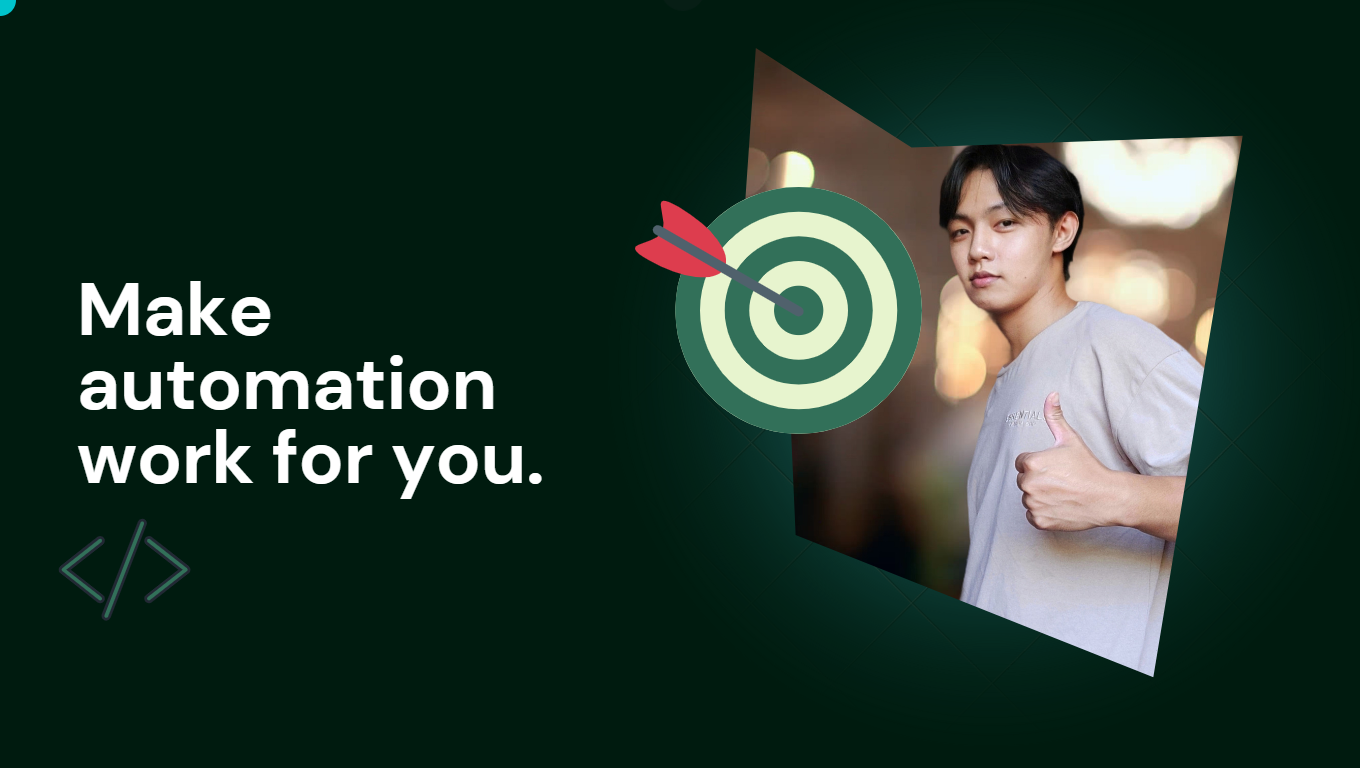
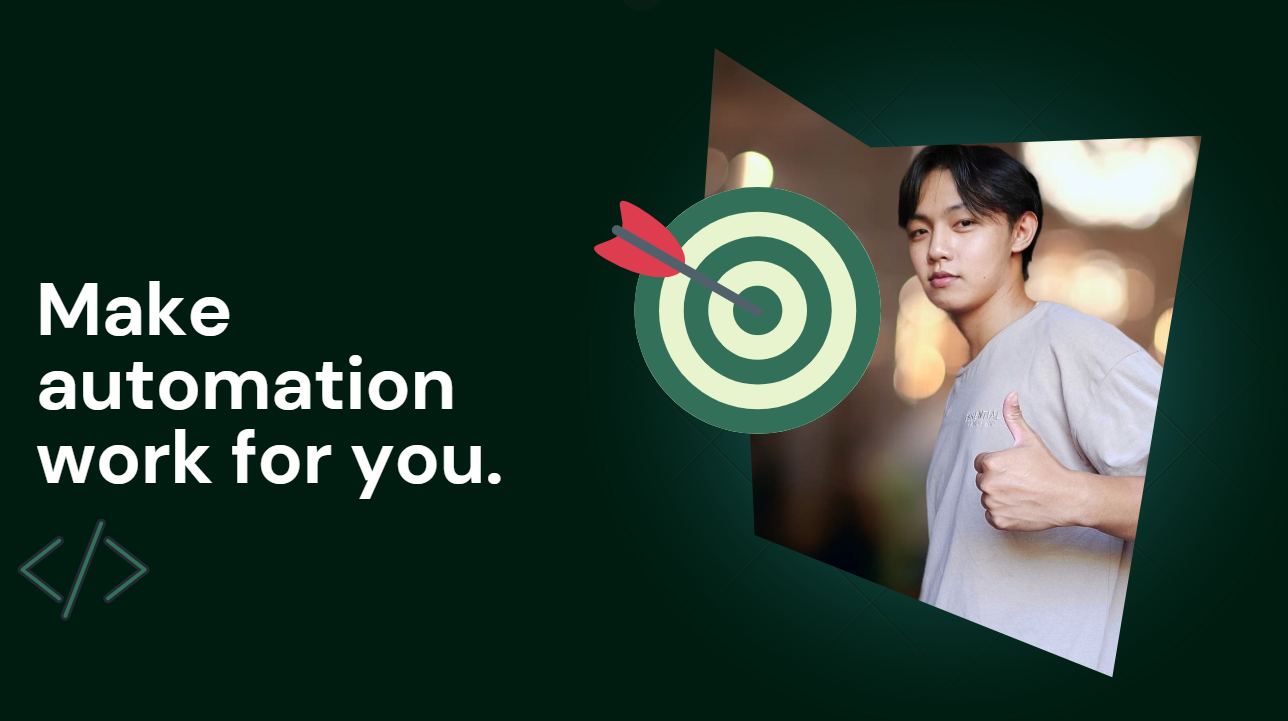
Add capstone-1

diff --git a/index.html b/index.html
@@ -22,32 +22,45 @@
         <link rel="preconnect" href="https://fonts.gstatic.com" crossorigin>
         <link href="https://fonts.googleapis.com/css2?family=Open+Sans:wght@300;400;500;600;700;800&display=swap" rel="stylesheet">
 
+        <link rel="preconnect" href="https://fonts.googleapis.com">
+        <link rel="preconnect" href="https://fonts.gstatic.com" crossorigin>
+        <link href="https://fonts.googleapis.com/css2?family=Neuton:ital,wght@0,200;0,300;0,400;1,400&family=Open+Sans:wght@400;500;600;700;800&display=swap" rel="stylesheet">
+
+        <link rel="preconnect" href="https://fonts.googleapis.com">
+        <link rel="preconnect" href="https://fonts.gstatic.com" crossorigin>
+        <link href="https://fonts.googleapis.com/css2?family=Allerta+Stencil&family=Neuton:ital,wght@0,200;0,300;0,400;1,400&family=Open+Sans:wght@400;500;600;700;800&display=swap" rel="stylesheet">
+
 
     </head>
     <body>
 
-        <nav class="container-fluid">
-            <ul class="kulay navbar-nav d-flex flex-row p-3">
-                <li class="nav-logo pl-5">
-                    <img class="r-logo" src="./images/r-logo.png" id="logo">
-                </li>
-                <div class="right-nav ml-auto">  
-                    <li class="nav home-icon">Home</li>
-                    <li class="nav">About me</li>
-                    <li class="nav">Projects</li>
-                    <li class="nav">Contact me</li>
-                    <li class="nav">
-                        <button class="tuitt-button">Join</button>
+        <nav class="container-fluid kulay">
+            <ul class=" navbar-nav d-flex flex-row pt-1 pb-1 ">
+                    <li class="nav-logo pl-5">
+                        <img class="img-fluid r-logo" src="./images/R-logo.png" id="logo">
+                    </li>
+
+                <div class="justify-content-center align-center p-3 pl-5">
+                    <div class="right-nav d-md-flex">  
+                        <li class="nav home-icon">Home</li>
+                        <li class="nav">About me</li>
+                        <li class="nav">Projects</li>
+                        <li class="nav">Contact me</li>      
+                    </div>
+                </div>
+
+                <div class="d-flex flex-row ml-auto mr-4" >
+                    <li class="nav ml-auto">
+                            <button class="btn tuitt-button" type="button">Join</button>
                     </li>
                 </div>
-            </ul>
+            </ul> 
         </nav>
 
 
         <!-- Carousel Home Start-->
-        <section class="container-fluid">
-        <div class="row d-none d-md-block mt-md-5">
-                                <div class="offset-xl-3 col-xl-6">
+        <div class="flex-md-row ">
+                                <div class="col-md-12 p-0">
                                     
                                     <div id="carouselExampleIndicators" class="carousel slide" data-ride="carousel">
                                       <ol class="carousel-indicators">
@@ -57,27 +70,15 @@
                                       </ol>
                                       <div class="carousel-inner">
                                         <div class="carousel-item active">
-                                          <img src="./images/home-1.png" class="d-block w-100" alt="...">
-                                                    <div class="carousel-caption d-none d-md-block">
-                                                        <h5>First slide label</h5>
-                                                        <p>Some representative placeholder content for the first slide.</p>
-                                                    </div>
+                                          <img src="./images/home-1.png" class="d-block w-100 horse-size" width="1900px" height="750px" alt="100">
                                         </div>
 
                                         <div class="carousel-item">
-                                          <img src="./images/home-2.png" class="d-block w-100" alt="...">
-                                                <div class="carousel-caption d-none d-md-block">
-                                                    <h5>First slide label</h5>
-                                                    <p>Some representative placeholder content for the first slide.</p>
-                                                </div>
+                                          <img  src="./images/home-2.png" class="d-block w-100 horse-size"width="1920px" height="750px">
                                         </div>
 
                                         <div class="carousel-item">
-                                          <img src="./images/home-3.png" alt="...">
-                                                <div class="carousel-caption d-none d-md-block">
-                                                    <h5>First slide label</h5>
-                                                    <p>Some representative placeholder content for the first slide.</p>
-                                                </div>
+                                          <img src="./images/home-3.png" class="horse-size" width="1920px" height="750px">
                                         </div>
 
                                       </div>
@@ -93,46 +94,22 @@
 
                                 </div>
                             </div>
-        </section>
         <!-- Carousel Home End-->
 
 
-
-
-
-
-
-
-
-
-
-
-
-
-
-
-
-
-
-        <!-- intro section -->
+        <!-- About Me Start -->
         <section class="intro">
-            <h2 class="title-2">What is a Developer Career Program?</h2>
+            <h2 class="title-2">About Me</h2>
             <p class="intro-description">
                 The Developer Career Program is inclusive of in-depth modules on static and dynamic web applications, with emphasis on the development of well-designed integrated software. The course covers key concepts on full-stack web development, including Responsive Web Design, Rapid Prototyping and Product Deployments.
             </p>       
         </section>
-        <!-- end of intro section -->
+        <!-- About Me End -->
+
+        
 
 
-        <!-- pre-footer section -->
-        <section class="pre-footer">
-            <h2 class="title-2">STILL HAVE A QUESTION?</h2>
-            <p class="prefooter-description">
-                Our career advisors are here to answer any questions you may have. Meet with them by booking one of our free seminars, and learn all the finer details of our web development course.
-            </p>
-            <button class="book-button">Book Now</button>
-        </section>
-        <!-- end of pre-footer section -->
+        
 
 
         <!-- footer -->

diff --git a/index.css b/index.css
@@ -3,19 +3,22 @@
     padding: 0;
     box-sizing: border-box;
     font-family: 'Open Sans', sans-serif;
+    font-family: 'Neuton', serif;
+    font-family: 'Allerta Stencil', sans-serif;
+
 
 }
 
 .nav{
-    margin-left: 13px;
-    margin-right: 13px;
+    margin-left: 30px;
+    margin-right: 30px;
     font-size: 18px;
+    font-family: 'Neuton', serif;
 
 }
 
 ul [class], div [nav] {
     list-style: none;
-    
     font-weight: bold;
 }
 
@@ -34,7 +37,7 @@ nav .container {
 }
 
 .kulay {
-    background-color: darkred;
+    background-color: #CEF1CC;
 }
 
 .nav-logo {
@@ -43,8 +46,9 @@ nav .container {
 }
 
 #logo {
-    height: 70px;
-    width: 90px;
+    height: 50px;
+    width: 50px;
+    border-radius: 50%;
 }
 
 .right-nav li{
@@ -57,16 +61,19 @@ nav .container {
 .tuitt-button {
     color: white;
     border: none;
-    background-color: #c2195b;
+    background-color: #056D39;
     width: 120px;
-    height: 39px;
+    height: 50px;
     border-radius: 50px;
     cursor: pointer;
     font-weight: bold; 
     font-size: 20px;
     transition: all 0.3s ease 0s;
-    padding: 5px;
+    padding-bottom: 10px;
+
+/*    padding: 5px;*/
     box-shadow: 1px 1px 10px 1px rgba(0, 0, 0, 0.2);
+    font-family: 'Allerta Stencil', sans-serif;
 }
 
 .right-nav .nav:hover {
@@ -77,6 +84,12 @@ li .tuitt-button:hover {
     background-color: rgba(194, 25, 91, 0.8);
 }  
 
+.horse-size {
+    height: 100vh;
+    background-size: cover;
+    background-position-x: center; 
+    background-position-y: center;
+}
 
 
 
